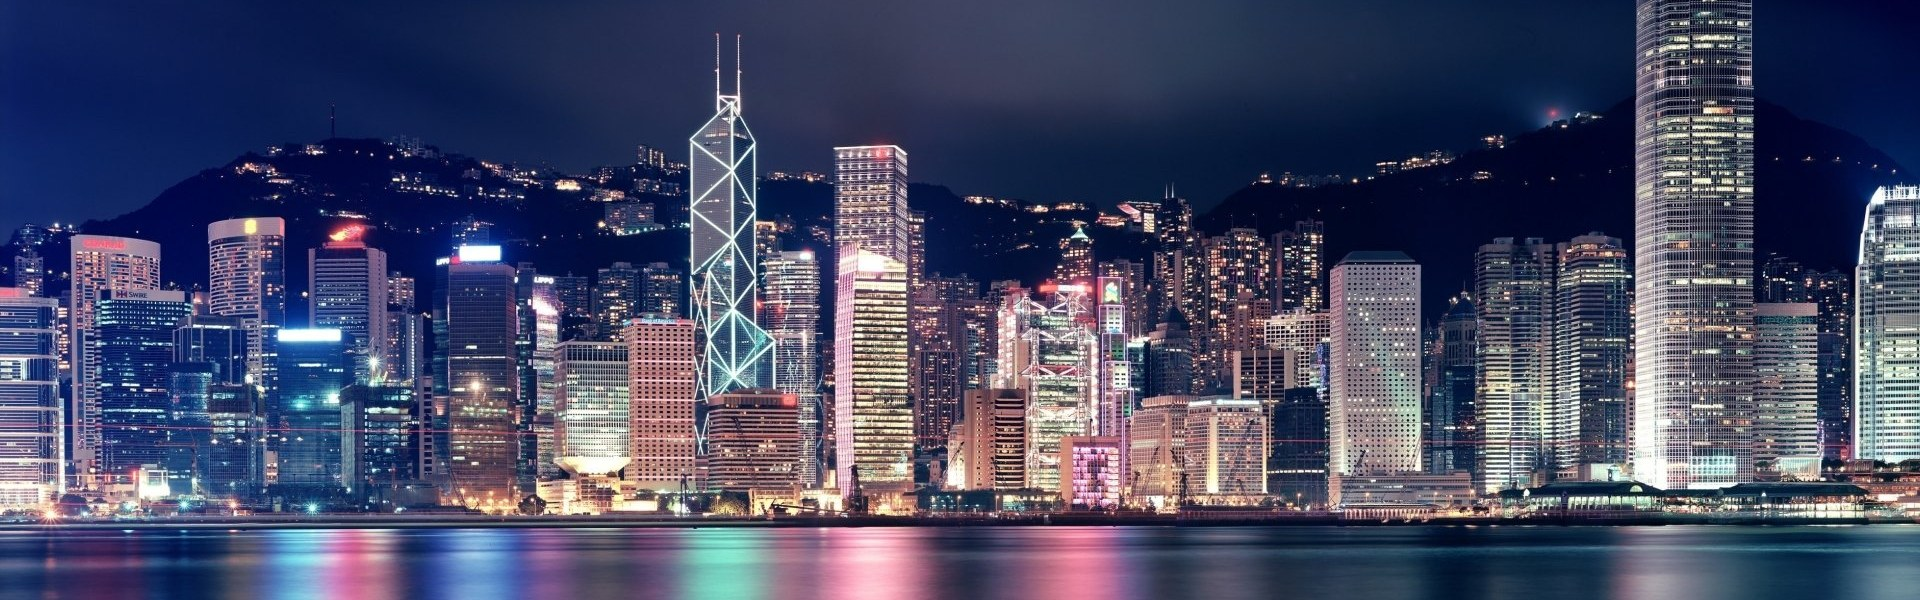
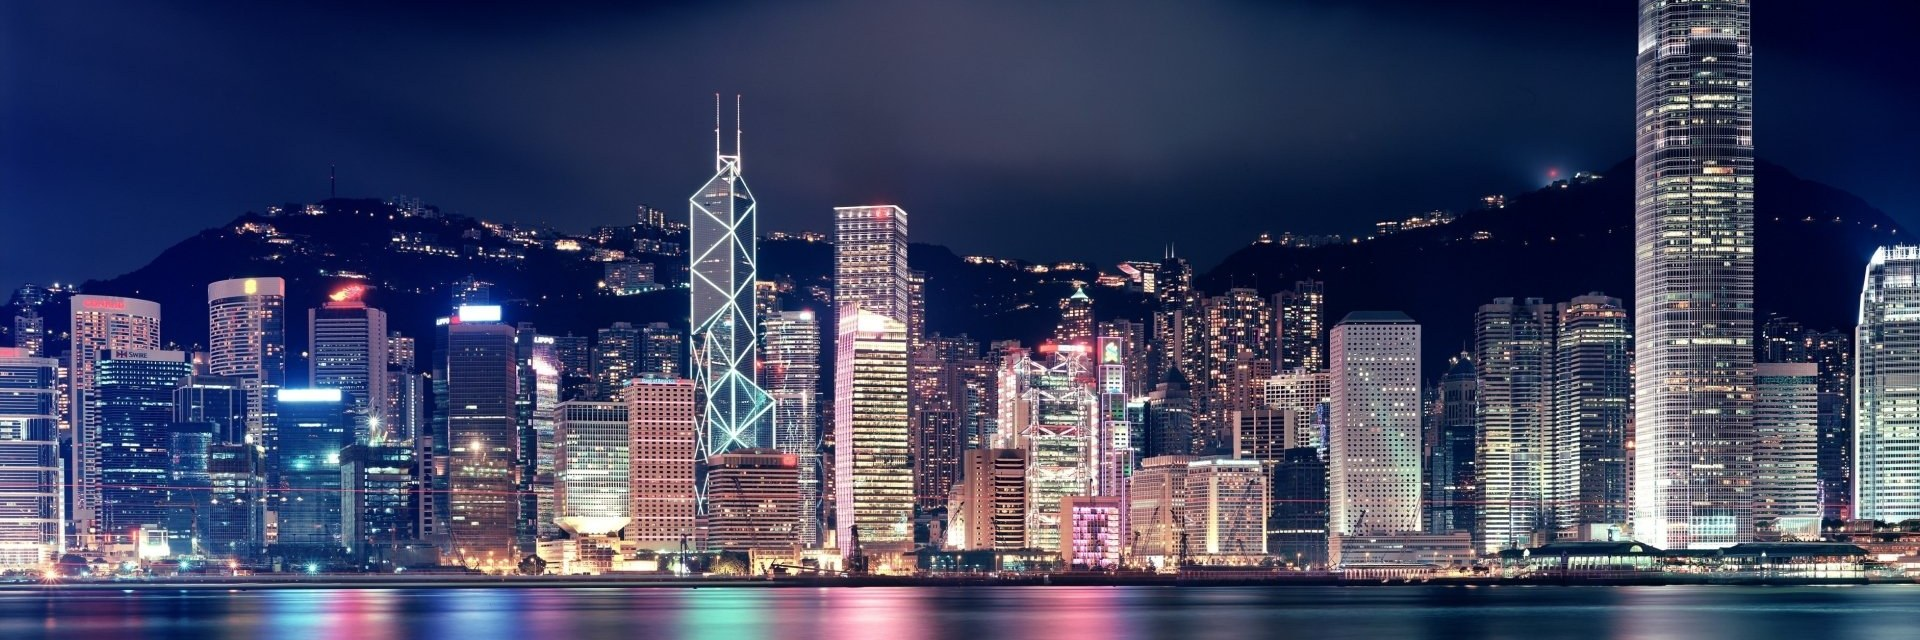
tweak

diff --git a/assets/css/agency.css b/assets/css/agency.css
@@ -989,7 +989,7 @@ body {
 body.home-wsdm2027 header {
     background-color: #333;
     background-image: linear-gradient(rgba(0, 0, 0, .5), rgba(0, 0, 0, .5)), url(../img/hongkong.jpg);
-    background-position: center center; /* hongkong.jpg is pre-cropped (2026-10-21): top of the skyline kept, most of the water removed */
+    background-position: center top; /* hongkong.jpg is pre-cropped (2026-10-21); align its top edge so the building tops are never cut on wide screens */
 }
 
 body.home-wsdm2027 header .intro-text {
